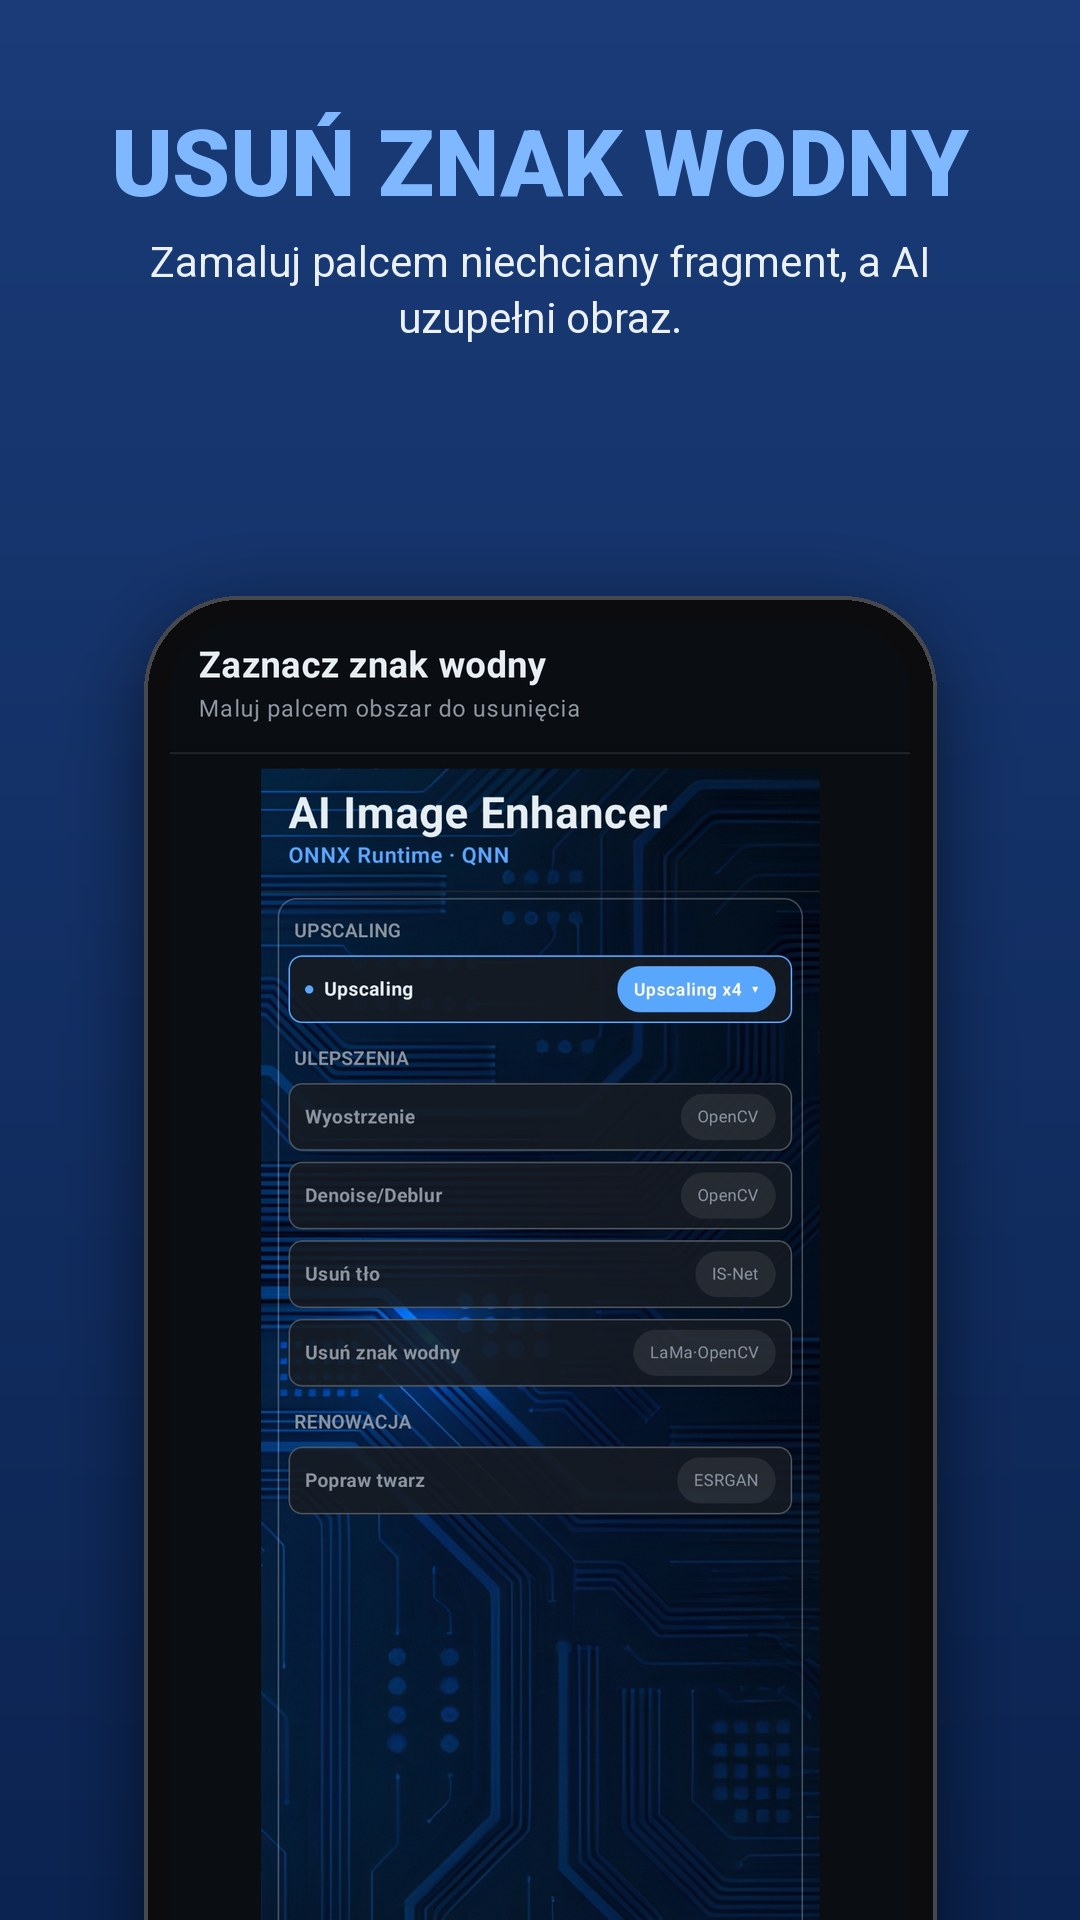
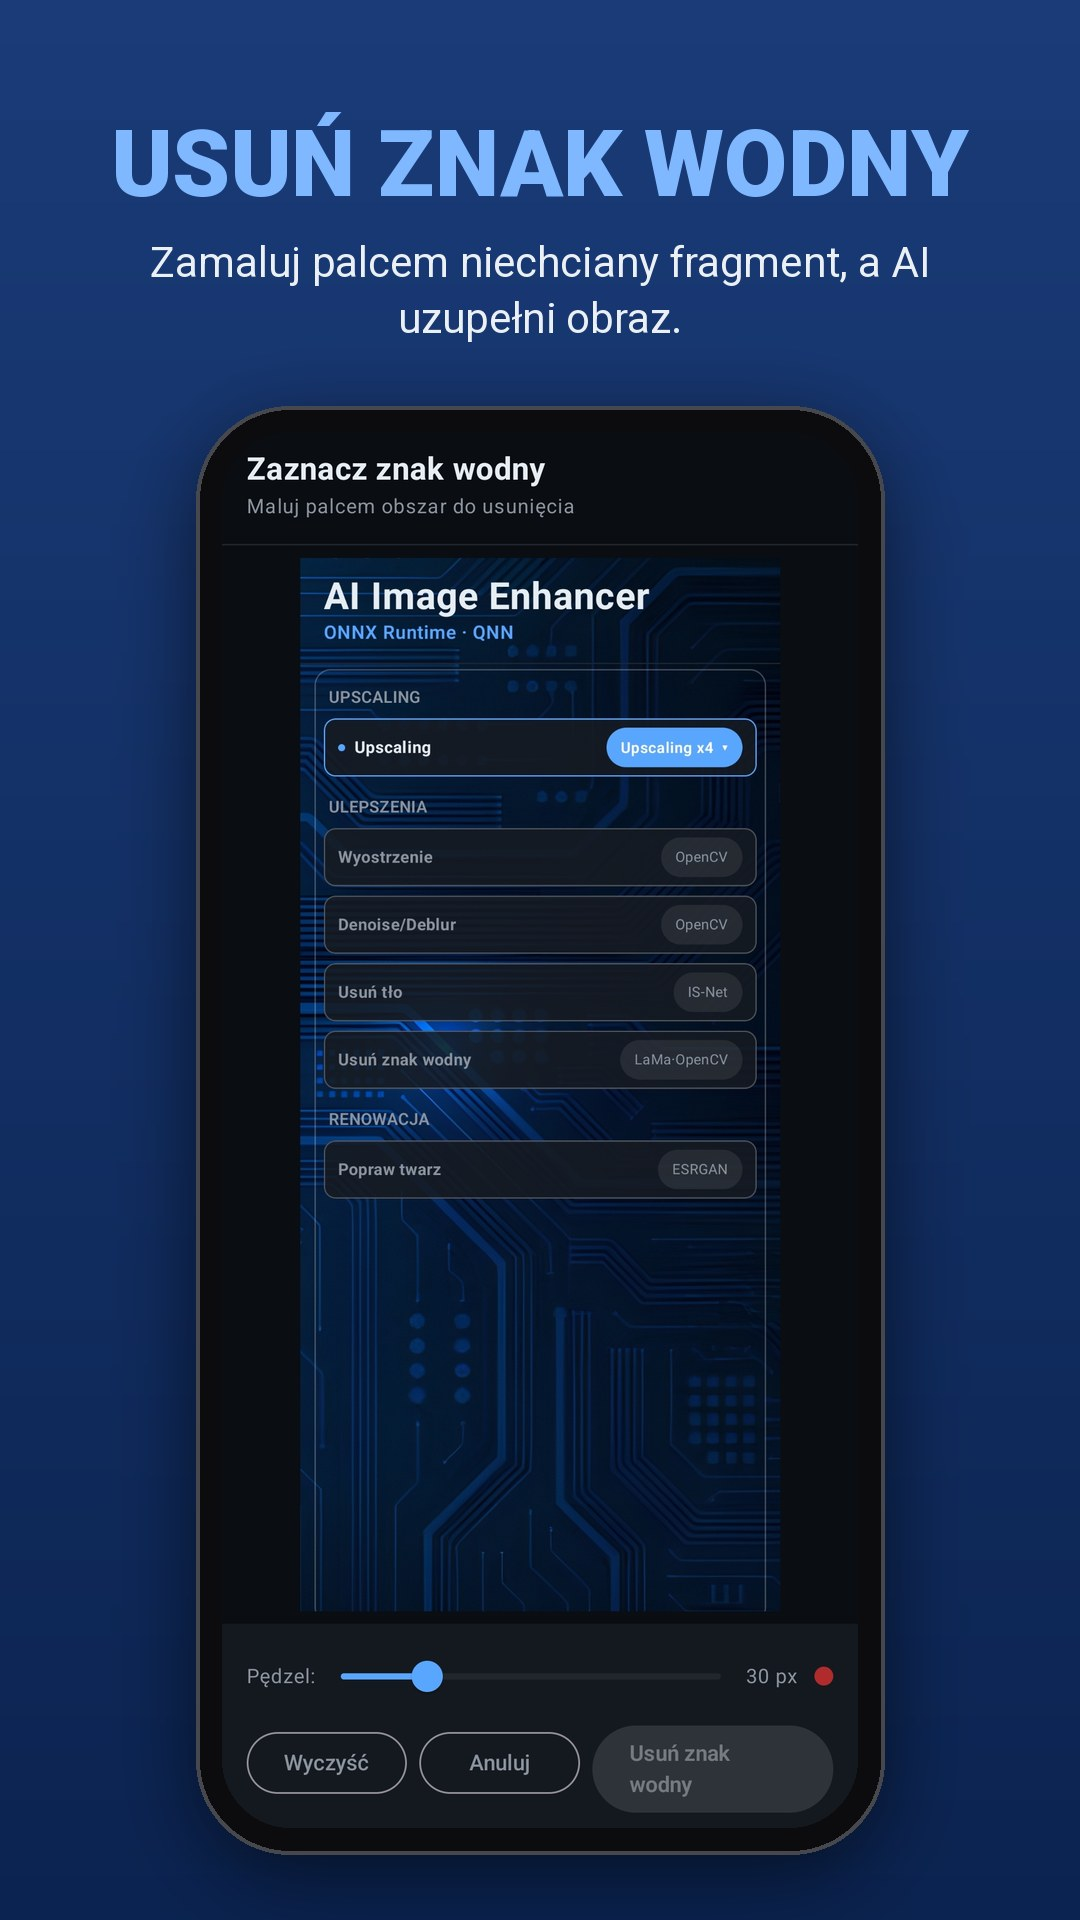
AI Image Enhancer: drugi zrzut z całym telefonem (opcja caly w promo.py)

Changed region(s): [[0.1222, 0.1875, 0.8861, 1.0], [0.7028, 0.4062, 0.7639, 0.4375]]

diff --git a/tools/promo.py b/tools/promo.py
@@ -1,5 +1,6 @@
 """Zrzut ekranu -> grafika do sklepu (1080x1920): tlo, naglowek, podpis, telefon ze zrzutem.
-Uzycie: python promo.py <zrzut> <wyjscie.jpg> "<NAGLOWEK>" "<podpis>" <kolor_tla> <kolor_akcentu>"""
+Uzycie: python promo.py <zrzut> <wyjscie.jpg> "<NAGLOWEK>" "<podpis>" <kolor_tla> <kolor_akcentu> [caly]
+"caly" = zmniejsz telefon, zeby byl widoczny w calosci."""
 import sys
 from PIL import Image, ImageDraw, ImageFont, ImageFilter
 
@@ -36,7 +37,7 @@ def wrap(d, text, f, maxw):
     return lines + [cur]
 
 
-def main(src, out, title, sub, bg, accent):
+def main(src, out, title, sub, bg, accent, full=""):
     bg, accent = hexc(bg), hexc(accent)
     img = Image.new("RGB", (W, H), bg)
     # delikatny gradient: jasniej u gory
@@ -58,12 +59,15 @@ def main(src, out, title, sub, bg, accent):
 
     # telefon: ekran 740 px szerokosci, ramka 22 px, dol uciety jak w Play
     shot = Image.open(src).convert("RGB")
+    b = 22
+    py = y + 60 if full else max(y + 60, 600)
     sw = 740
+    if full:  # caly telefon miesci sie nad dolna krawedzia
+        sw = min(sw, round((H - py - 70 - 2 * b) * shot.width / shot.height))
     sh = round(shot.height * sw / shot.width)
     shot = shot.resize((sw, sh), Image.LANCZOS)
-    b = 22
     pw, ph = sw + 2 * b, sh + 2 * b
-    px, py = (W - pw) // 2, max(y + 60, 600)
+    px = (W - pw) // 2
 
     shadow = Image.new("L", (W, H), 0)
     ImageDraw.Draw(shadow).rounded_rectangle((px, py + 20, px + pw, py + ph + 20), 90, fill=150)
